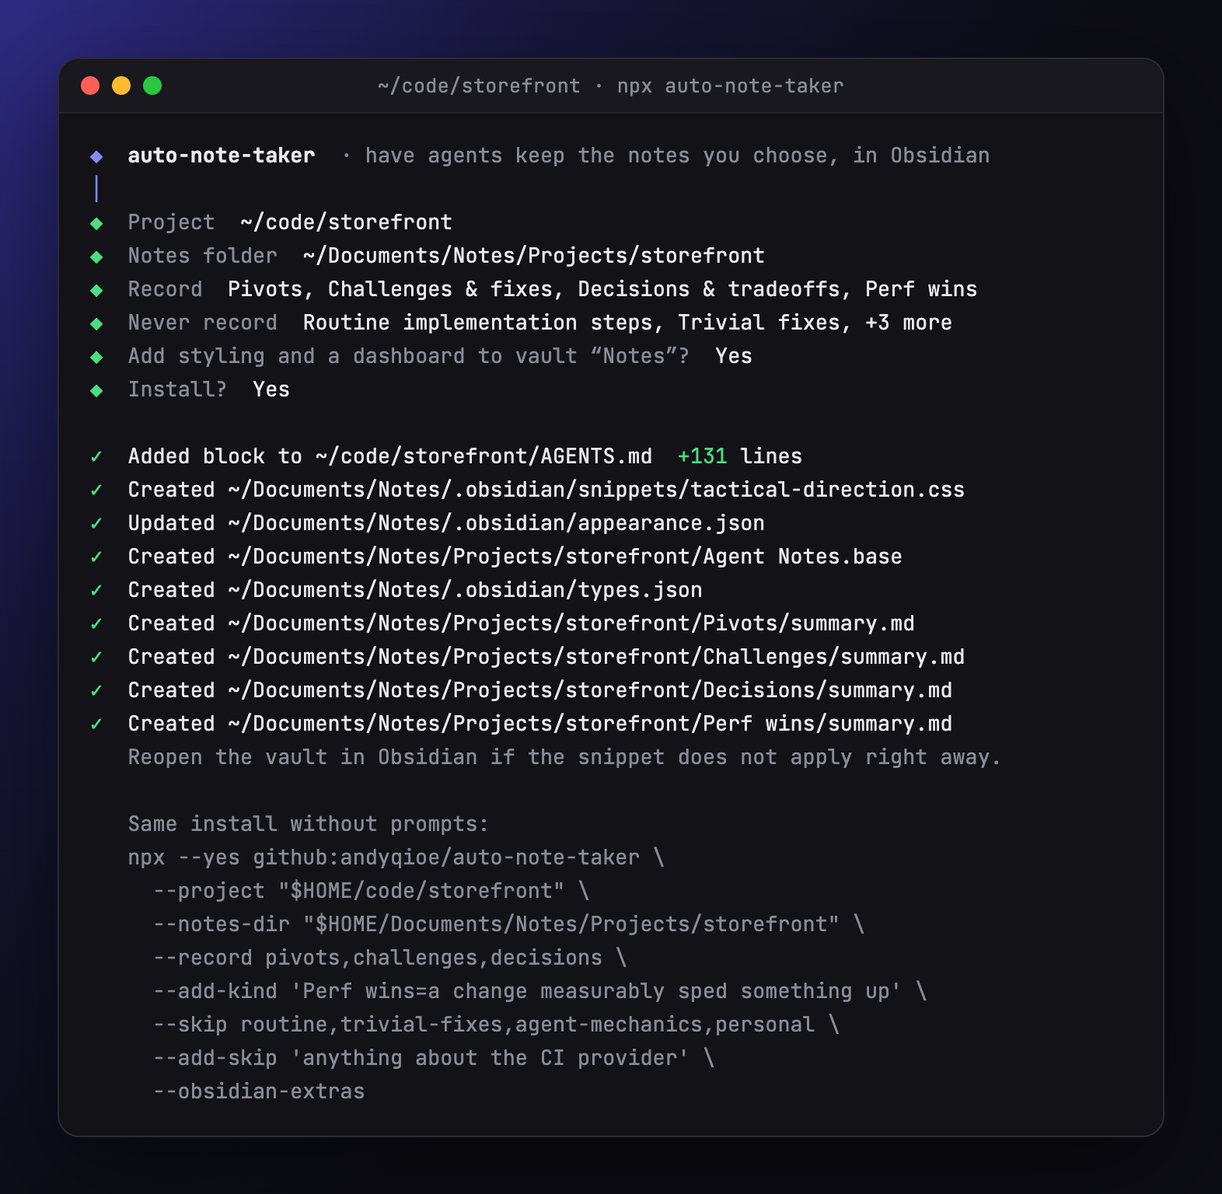
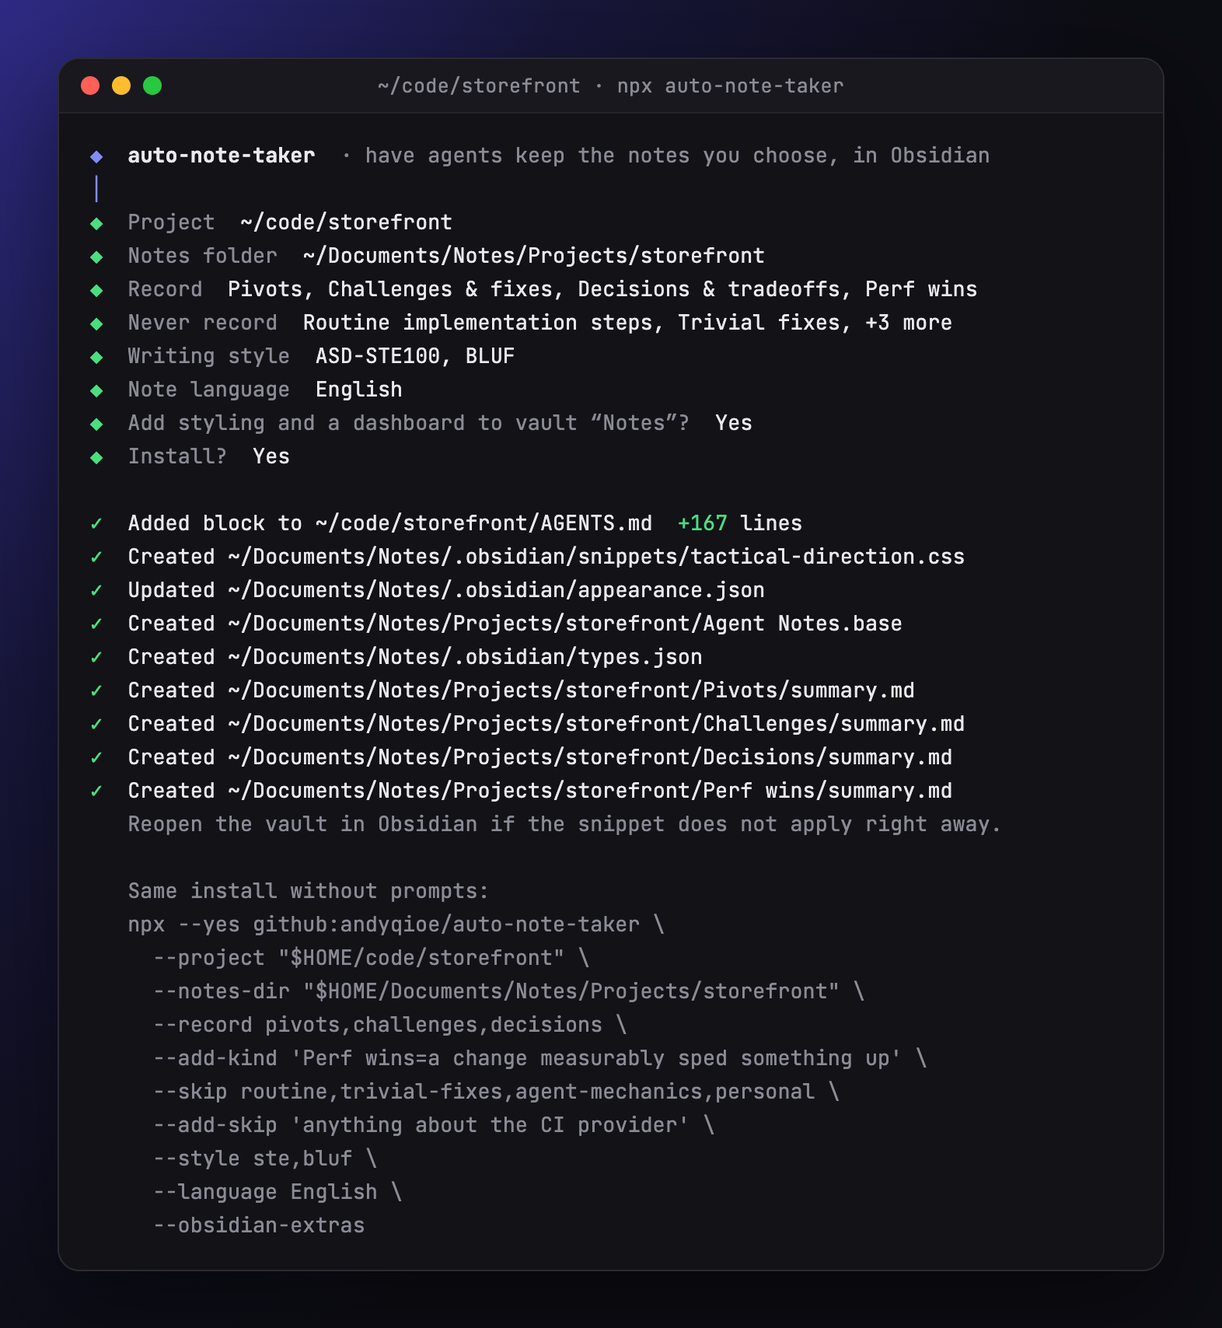
Document writing styles, the note language and lint
The README walks through the new Style and Language steps, gives every style the
same example sentence, lists what lint checks for each, and covers the new flags
and errors. The wizard screenshots are regenerated, with new ones for both steps.

Changed region(s): [[0.0935, 0.375, 0.8104, 0.9375], [0.0623, 0.0312, 0.8104, 0.3438], [0.7169, 0.0938, 0.8104, 0.1562]]

diff --git a/README.md b/README.md
@@ -6,6 +6,7 @@ Auto Note Taker fixes that by teaching them to write it down.
 It installs a short set of instructions into your project's `AGENTS.md`.
 You choose what the agent records, from a menu: pivots, hard problems and how they were solved, the decisions it made on its own, your tactical direction, dead ends, gotchas, open questions, or kinds you define yourself.
 You also choose what it must never record, such as routine steps, trivial fixes or anyone's personal details.
+If you want, you choose how the notes read: a writing standard such as ASD-STE100 (Simplified Technical English), Plain language, BLUF or Google developer style, and the language the notes are written in.
 From then on, the agent writes each of those moments as an Obsidian note, filed by kind and then by topic: the point first, the reasoning below it, your exact words preserved where they decided something.
 Future agents read those notes before acting, so nobody relearns the same lesson twice.
 
@@ -25,6 +26,7 @@ The instructions are a plain prompt, not a skill or plugin, so any agent that re
 - [Review the diff](#review-the-diff)
 - [What agents record](#what-agents-record)
 - [What a note looks like](#what-a-note-looks-like)
+- [Writing styles and language](#writing-styles-and-language)
 - [Obsidian styling and dashboard](#obsidian-styling-and-dashboard)
 - [Update, check and uninstall](#update-check-and-uninstall)
 - [Troubleshooting](#troubleshooting)
@@ -63,7 +65,7 @@ cd ~/code/storefront
 npx --yes github:andyqioe/auto-note-taker
 ```
 
-Pick the notes folder, tick what to record and what never to record, accept the styling if the folder is in an Obsidian vault, and confirm.
+Pick the notes folder, tick what to record and what never to record, pick a writing style and a note language if you want them, accept the styling if the folder is in an Obsidian vault, and confirm.
 That is the whole setup.
 
 To add or remove kinds later, run `npx --yes github:andyqioe/auto-note-taker update` from the same project (see [Add or remove kinds later](#add-or-remove-kinds-later)).
@@ -81,7 +83,7 @@ Every screen works the same way:
 |---|---|
 | `↑` `↓` (or `j` `k`) | Move between options |
 | `1` to `9` | Jump straight to an option |
-| `Space` | Tick or untick, on the two checklists |
+| `Space` | Tick or untick, on the checklists |
 | `Enter` | Choose, or confirm a checklist |
 | `Esc` | Go back one screen |
 | `Ctrl+C` | Quit without changing anything |
@@ -163,7 +165,34 @@ The first four start ticked:
 **+ Add your own rule…** adds a line in your words, such as "anything about the CI provider".
 Secrets are always redacted, whatever you tick.
 
-### 7. Decide on styling
+### 7. Choose a writing style
+
+![The Writing style checklist: the sentence an agent writes without a style, then ASD-STE100, Plain language, BLUF and Google developer style, each with the same sentence rewritten in that style under it; ASD-STE100 and BLUF are ticked](docs/images/wizard-style.png)
+
+A checklist of writing standards for the prose agents write in a note.
+Under each one, the same fact is written in that style, and the line above the list shows it without a style, so you can compare them before you choose.
+Nothing is ticked by default: without a style, agents follow only the shared writing rules (present tense, short sentences, one idea per bullet).
+You can tick more than one; where two styles disagree, agents follow the stricter rule.
+**ASD-STE100** and **BLUF** work well together: one shapes each sentence, the other puts the bottom line first.
+
+**+ Describe your own style…** adds a style in your words, such as "keep each note under one screen".
+It adds to any style you ticked.
+
+See [Writing styles and language](#writing-styles-and-language) for what each style asks of the agent.
+
+### 8. Choose the note language
+
+![The Note language menu: Match the user, English (highlighted), and Type a language](docs/images/wizard-language.png)
+
+| Option | Notes are written in |
+|---|---|
+| **Match the user** | The language you write to the agent in. This is the default. |
+| **English** | English, whatever language you write in. |
+| **Type a language…** | Any other language, such as `Deutsch` or `Português (Brasil)`. |
+
+Your verbatim messages always stay in the language you wrote them in, and the section headings stay as each kind defines them.
+
+### 9. Decide on styling
 
 ![The styling step, listing the snippet, the appearance setting, the Agent Notes.base dashboard and the property types it will add](docs/images/wizard-styling.png)
 
@@ -171,27 +200,27 @@ If the notes folder is inside an Obsidian vault, the wizard offers to add a styl
 See [Obsidian styling and dashboard](#obsidian-styling-and-dashboard) for what they do.
 Choose **No** to keep the vault untouched; notes still render with stock Obsidian colors.
 
-### 8. Confirm
+### 10. Confirm
 
-![The Install? screen: the instructions file, the notes folder, the four kinds to record with their folders, the five exclusions wrapped over two lines, and the change to AGENTS.md as +126 lines](docs/images/wizard-confirm.png)
+![The Install? screen: the instructions file, the notes folder, the four kinds to record with their folders, the styles ASD-STE100 and BLUF, the language English, the five exclusions wrapped over two lines, and the change to AGENTS.md as +167 lines](docs/images/wizard-confirm.png)
 
-The last screen shows the instructions file, whether the block will be created, added or updated, the notes folder, the kinds to record with their folders, and what will never be recorded.
+The last screen shows the instructions file, whether the block will be created, added or updated, the notes folder, the kinds to record with their folders, the writing style and language, and what will never be recorded.
 The **changes** row sizes the edit to `AGENTS.md` in lines added and removed.
 Press `d` to read the exact diff before deciding (see [Review the diff](#review-the-diff)).
 Nothing is written before you choose **Yes**.
 `Esc` goes back a step at a time, keeping what you ticked.
 
-### 9. Done
+### 11. Done
 
-![The finished install, listing every file written and the same install as a command, with --record, --add-kind, --skip and --add-skip flags](docs/images/wizard-done.png)
+![The finished install, listing every file written and the same install as a command, with --record, --add-kind, --skip, --add-skip, --style and --language flags](docs/images/wizard-done.png)
 
-The wizard lists every file it wrote, with the lines added and removed in `AGENTS.md`, and prints the same install as a command, with your kinds and exclusions as flags, that you can paste into a script, a README or another machine.
+The wizard lists every file it wrote, with the lines added and removed in `AGENTS.md`, and prints the same install as a command, with your kinds, exclusions, styles and language as flags, that you can paste into a script, a README or another machine.
 Paths under your home folder print as `"$HOME/…"` so the command works for teammates too.
 
 ## Install without prompts
 
 Pass both paths, or add `--yes` to accept defaults for anything missing.
-Without `--record` and `--skip`, a project keeps the choice it made last time (a first install uses the defaults).
+Without `--record`, `--skip`, `--style` and `--language`, a project keeps the choice it made last time (a first install uses the defaults).
 The installer also never prompts when stdin or stdout is not a terminal (CI, pipes) or with `--check`.
 
 ```sh
@@ -207,6 +236,9 @@ npx --yes github:andyqioe/auto-note-taker \
   --skip routine,trivial-fixes,agent-mechanics,personal \
   --add-skip 'anything about the CI provider' \
   --obsidian-extras
+
+# Notes in Simplified Technical English with the bottom line first, always in English
+npx --yes github:andyqioe/auto-note-taker --project . --yes --style ste,bluf --language English
 
 # Agents that run unattended (CI, scheduled jobs) write notes without asking
 npx --yes github:andyqioe/auto-note-taker --project . --yes --headless
@@ -225,6 +257,10 @@ npx --yes github:andyqioe/auto-note-taker#COMMIT_SHA --project . --yes
 | `--kind-details TEXT` | How agents should write the kind of your own just added, in your words, for example an index note to keep. It overrides that kind's layout, never your exclusions. |
 | `--skip ITEMS` | Comma-separated things never to record, or `none`: `routine`, `trivial-fixes`, `agent-mechanics`, `personal`, `brainstorm`, `restated-docs`. Default: the last choice, else the first four. |
 | `--add-skip TEXT` | Also never record this, in your words; repeat for several. |
+| `--style STYLES` | Comma-separated writing styles, or `none`: `ste` (ASD-STE100), `plain` (Plain language), `bluf` (BLUF), `google` (Google developer style). Default: the last choice, else none. |
+| `--own-style TEXT` | A writing style in your words; one line, at most 600 characters. It adds to any `--style`. |
+| `--no-own-style` | Drop the style in your own words. |
+| `--language NAME` | Write notes in this language, such as `English`, or `match` to write in the language the user writes in. Default: the last choice, else `match`. |
 | `--obsidian-extras` | Also install the styling snippet and dashboard, if the notes folder is inside a vault. |
 | `--no-obsidian-extras` | Never offer or install them. |
 | `--headless` | Let agents write notes without asking. By default the block tells agents to ask a Yes/No question before each note, and to write nothing when no one can answer. It is never remembered: pass it on every run that should stay headless, `--check` included. |
@@ -240,9 +276,9 @@ Exit codes: `0` on success (and for `--check` when the block is current), `1` on
 
 ## Add or remove kinds later
 
-Once a project is installed, `update` changes which kinds of notes agents record, and brings the install up to date (see [Bring an older install up to date](#bring-an-older-install-up-to-date)).
+Once a project is installed, `update` changes which kinds of notes agents record, their writing style and their language, and brings the install up to date (see [Bring an older install up to date](#bring-an-older-install-up-to-date)).
 The notes folder, your exclusions, the styling and the headless setting stay as they are.
-Use it to start recording a built-in kind, to add a kind of your own, to change how one of your kinds is written, or to stop recording a kind.
+Use it to start recording a built-in kind, to add a kind of your own, to change how one of your kinds is written, to stop recording a kind, or to change how notes read.
 
 ### 1. Start the update
 
@@ -269,6 +305,10 @@ The wizard shows the project and notes folder it keeps, then the Record checklis
 Press `Enter` when the ticks are right.
 At least one kind must stay ticked.
 
+Next come the [Writing style](#7-choose-a-writing-style) and [Note language](#8-choose-the-note-language) screens of the install, set to what the project has now.
+Press `Enter` on each to keep it, or change it there.
+`Esc` on any screen, the confirm screen included, goes back one screen.
+
 ### 3. Describe a kind of your own
 
 The wizard asks four questions, one at a time:
@@ -292,7 +332,7 @@ Press `Esc` on any question to go back to the checklist without adding it.
 
 ![The confirmation: To-dos will be added with its folder and sections, followed by the full list of kinds that will be recorded, and Yes selected](docs/images/wizard-update.png)
 
-The last screen lists what changes: each kind to **add** with its folder and sections, each kind to **remove**, the full list you will **record** afterwards, and the size of the edit to `AGENTS.md`.
+The last screen lists what changes: each kind to **add** with its folder and sections, each kind to **remove**, the full list you will **record** afterwards, a new **style** or **language** when you changed one, and the size of the edit to `AGENTS.md`.
 Press `d` to read the exact diff first (see [Review the diff](#review-the-diff)).
 Choose **Yes** to write it, or **No** to leave everything as it was.
 If nothing changed, the wizard says so and writes nothing.
@@ -325,6 +365,9 @@ npx --yes github:andyqioe/auto-note-taker update \
 
 # Stop recording a kind; its notes stay where they are
 npx --yes github:andyqioe/auto-note-taker update --remove-kind pivots
+
+# Write notes in Plain language from now on, in the language the user writes in
+npx --yes github:andyqioe/auto-note-taker update --style plain --language match
 ```
 
 `update` prints what it did, then the diff of `AGENTS.md`:
@@ -383,6 +426,7 @@ You can combine several `--add-kind` and `--remove-kind` flags in one run.
 | `--kind-sections LIST` | Sections of the kind of your own just added, comma-separated; at most 10, without backticks or `#`. Default: `Context, What happened, Why it matters, Follow-ups`. |
 | `--kind-details TEXT` | How agents should write the kind of your own just added; one line, at most 600 characters. |
 | `--remove-kind KIND` | Stop recording a kind, by id (`pivots`) or name (`Perf wins`), in any case. |
+| `--style`, `--own-style`, `--no-own-style`, `--language` | Change the writing style or the language, as in [Install without prompts](#install-without-prompts). Notes already written keep their wording. |
 | `--dry-run` | Print everything `update` would change, including note moves and link edits, and write nothing. |
 | `--yes`, `-y` | Do not prompt. |
 
@@ -585,7 +629,73 @@ A small `mermaid` diagram appears only when the agreement is a flow or a state m
 
 ![The final agreement: eight numbered rules in a green callout, then open follow-ups in a blue one](docs/images/note-final.png)
 
-**Writing.** Present tense, short sentences, one idea per bullet, your own terms for project concepts, and prose in the language you write in.
+**Writing.** Present tense, short sentences, one idea per bullet, your own terms for project concepts, and prose in the language you write in, unless the install names a language.
+A [writing style](#writing-styles-and-language) adds its own rules on top.
+
+## Writing styles and language
+
+A writing style is a standard for the prose agents write in a note: the title, the banner, the section text, list items and table cells.
+The install adds a **Writing style** section to the block with the rules of each style you chose, in the installer's own words.
+A style never changes your verbatim messages, code, identifiers, file and folder names, property values or the required section headings.
+
+| Style | What it asks for | The same fact, in that style |
+|---|---|---|
+| *No style* | The shared writing rules only | Retries were piling up because the lock outlived the worker; it now expires with the worker's lease. |
+| **ASD-STE100** (`ste`) | Simplified Technical English: one word for one meaning, the active voice, simple tenses, no "-ing" verbs, 25 words or fewer a sentence (20 for an instruction), six sentences or fewer a paragraph | The job lock now expires with the lease of the worker. A worker that crashes does not block its retries. |
+| **Plain language** (`plain`) | ISO 24495-1: the reader first, everyday words, the active voice, sentences under 20 words and none over 30, terms defined once | When a worker crashed, its lock stayed, so retries piled up. Now the lock ends when the worker's lease ends. |
+| **BLUF** (`bluf`) | Bottom line up front, from Army regulation AR 25-50: the banner states the outcome or the action the note asks for, and each section opens with its main point | Crashed workers no longer block retries. The lock outlived the worker, so it now expires with the lease. |
+| **Google developer style** (`google`) | The Google developer documentation style guide: present tense, the active voice, "you", sentence-case headings, code font, no "please", "simply" or Latin abbreviations | If a worker crashes, its retries now run, because the job lock expires with the worker's lease. |
+| *Your own* | Your sentence, followed as written | |
+
+You can choose several.
+Where two of them disagree, agents follow the stricter rule.
+The rules of ASD-STE100 and Google developer style are for English; when a note is in another language, agents follow their intent.
+
+The **note language** decides which language agents write notes in.
+By default they write in the language you write in; an install can name one instead, such as English.
+Your verbatim messages always stay in the language you wrote them in.
+
+### Check notes against a style
+
+`lint` reads notes and prints each sentence that breaks a rule of the installed styles that a script can check.
+It changes nothing.
+
+```sh
+npx --yes github:andyqioe/auto-note-taker lint                     # every note in the notes folder
+npx --yes github:andyqioe/auto-note-taker lint "Agent Notes/Challenges/queue/retry/lockLease.md"
+npx --yes github:andyqioe/auto-note-taker lint --style plain        # against another style
+```
+
+```text
+Agent Notes/Challenges/queue/retry/lockLease.md: 3 warnings in 5 sentences
+  L18 ing: "piling": use a verb or a noun, not an -ing form (keep it if it is a technical name) - "Retries were piling up because the lock outlived the worker."
+  L23 passive: "was released": name who does it, in the active voice - "The lock was released only by the worker itself; a worker that crashed never released it."
+  L23 semicolon: split the sentence at the semicolon - "The lock was released only by the worker itself; a worker that crashed never released it."
+3 warnings in 1 note (ASD-STE100, BLUF). A warning is a question: fix the sentence, or keep it when the rule does not apply.
+```
+
+When you choose a style, the block tells agents to run `lint` on each note they write and to fix each warning, or keep the sentence when the rule does not apply.
+
+| Style | What `lint` checks |
+|---|---|
+| ASD-STE100 | Sentence length, the passive voice, perfect tenses, hedges ("might", "should"), "-ing" verbs, phrasal verbs, long words, semicolons, two instructions in one sentence, paragraph length |
+| Plain language | Sentence length (30 words), the passive voice, long words, paragraph length |
+| BLUF | The banner callout comes first after the title; paragraph length |
+| Google developer style | Future tense ("will"), the passive voice, "please", "simply", "easily", "obviously", Latin abbreviations, "and/or" |
+| Your own | Nothing: a script cannot read your sentence |
+
+`lint` skips the properties, headings, code, tables, callout titles and every `quote` callout, so it never asks an agent to change your words.
+It cannot judge meaning, so a warning is a question, and a clean report does not prove the style is followed.
+A technical name or an actor that does not matter can be a correct exception.
+
+| Flag | Meaning |
+|---|---|
+| `NOTE...` | The notes to check. Default: every note in the installed notes folder, without the `summary.md` pages. |
+| `--project PATH` | The project whose install says which styles and notes folder to use. Default: the current directory. |
+| `--style STYLES` | Check against these styles instead of the installed ones. |
+| `--strict` | Exit `1` when there is a warning, for CI. |
+| `--all` | List every warning, not the first 20 of each note. |
+| `--format json` | Print one object a note: `{file, sentences, warnings}`, each warning with its `rule`, `line`, `detail` and `sentence`. |
 
 ## Obsidian styling and dashboard
 
@@ -619,9 +729,9 @@ To get the current dashboard back, delete `Agent Notes.base` and run the install
 
 ## Update, check and uninstall
 
-**Update.** Run the installer again, or use [`update`](#add-or-remove-kinds-later) to add or remove kinds only.
+**Update.** Run the installer again, or use [`update`](#add-or-remove-kinds-later) to change only the kinds, the writing style or the language.
 It replaces only its own block, so other text in `AGENTS.md` is untouched, and a run with nothing new to write changes no bytes.
-The block stores your choices on one line, so the wizard starts from them (**Keep current** for the folder, your ticks on both checklists) and a run without flags keeps them.
+The block stores your choices on one line, so the wizard starts from them (**Keep current** for the folder, your ticks on every checklist, your language) and a run without flags keeps them.
 
 **Upgrading from an older version.** Run `update` (see [Bring an older install up to date](#bring-an-older-install-up-to-date)): it moves flat notes into topic folders, fixes kinds whose name holds their instructions, and removes the files and empty folders older versions left behind.
 A block from before note kinds existed is read as "record tactical direction, straight into the notes folder", so it keeps recording exactly what it did.
@@ -649,8 +759,10 @@ If you added the styling, also delete `.obsidian/snippets/tactical-direction.css
 | The dashboard shows nothing | Bases needs Obsidian 1.9 or newer with the core Bases plugin on, and notes need their kind's tag (`pivot`, `challenge`, ...). |
 | An agent records something you excluded, or skips a kind you chose | Run the installer again and check both checklists; `--check` tells you whether the block is current. For your own kinds and rules, a more concrete sentence helps ("a change with before and after timings" rather than "performance stuff"). |
 | `has no auto-note-taker block to update` | `update` only changes an existing install. Run the installer first. |
-| `update only adds or removes kinds` | The flag changes something other than kinds. Run the installer without `update` instead. |
-| `unknown note kind` or `unknown exclusion` | A typo in `--record` or `--skip`. The error lists the valid names. |
+| `update only changes kinds, styles and the language` | The flag changes something else, such as the notes folder. Run the installer without `update` instead. |
+| `unknown note kind`, `unknown exclusion` or `unknown style` | A typo in `--record`, `--skip` or `--style`. The error lists the valid names. |
+| `no writing style to check against` | `lint` found no style in the install. Choose one with `update --style`, or pass `--style` to `lint`. |
+| Notes ignore the chosen style | Agents follow the block from their next session. Check that `AGENTS.md` has a **Writing style** section, and run `lint` to see which sentences break it. |
 | `AGENTS.md points outside the project` | `AGENTS.md` is a symlink to another project. Install in the project that owns the file. |
 | `Malformed or duplicate managed block` | `AGENTS.md` has a `BEGIN` marker without its `END`, or two blocks. Fix the markers by hand; the installer changes nothing until then. |
 | `Project instructions changed during installation` | Something else edited `AGENTS.md` at the same moment. Run again. |
@@ -665,6 +777,9 @@ docs/demo-notes/                     the sample notes those screenshots show
 lib/install.mjs                      renders, plans and writes the managed block, and reads back its saved choice
 lib/diff.mjs                         the line diff every run shows of AGENTS.md
 lib/kinds.mjs                        the note kinds and exclusions, and selection validation
+lib/styles.mjs                       the writing styles, their wizard examples and what lint checks for each
+lib/ste.mjs                          the checker behind lint: reads a note's own prose and applies the style rules
+lib/lint.mjs                         the lint command: which notes, which styles, and the report
 lib/layout.mjs                       moves flat notes into topic folders and rewrites the links to them
 lib/cleanup.mjs                      what update tidies (kind names, leftovers) and the read-back check of every write
 lib/summary.mjs                      each kind's summary.md, built from its notes' properties
@@ -673,6 +788,7 @@ lib/ui.mjs                           dependency-free terminal prompts, including
 context/AGENTS.md                    the shared instructions that get installed
 context/ask.md                       the ask-before-writing rule, left out by --headless
 context/kinds/                       one file of instructions per note kind (custom.md for your own)
+context/styles/                      one file of rules per writing style
 context/obsidian/                    the styling snippet
 test/                                node:test suites
 ```
